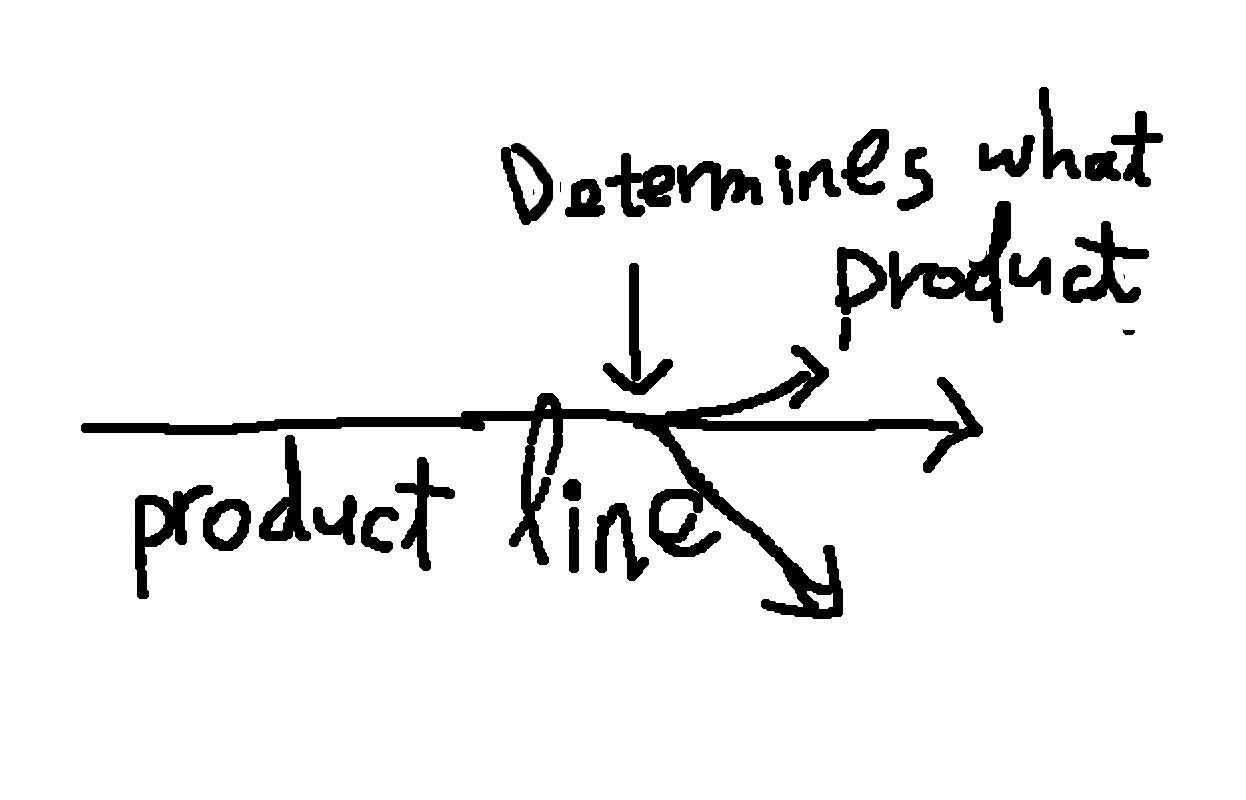
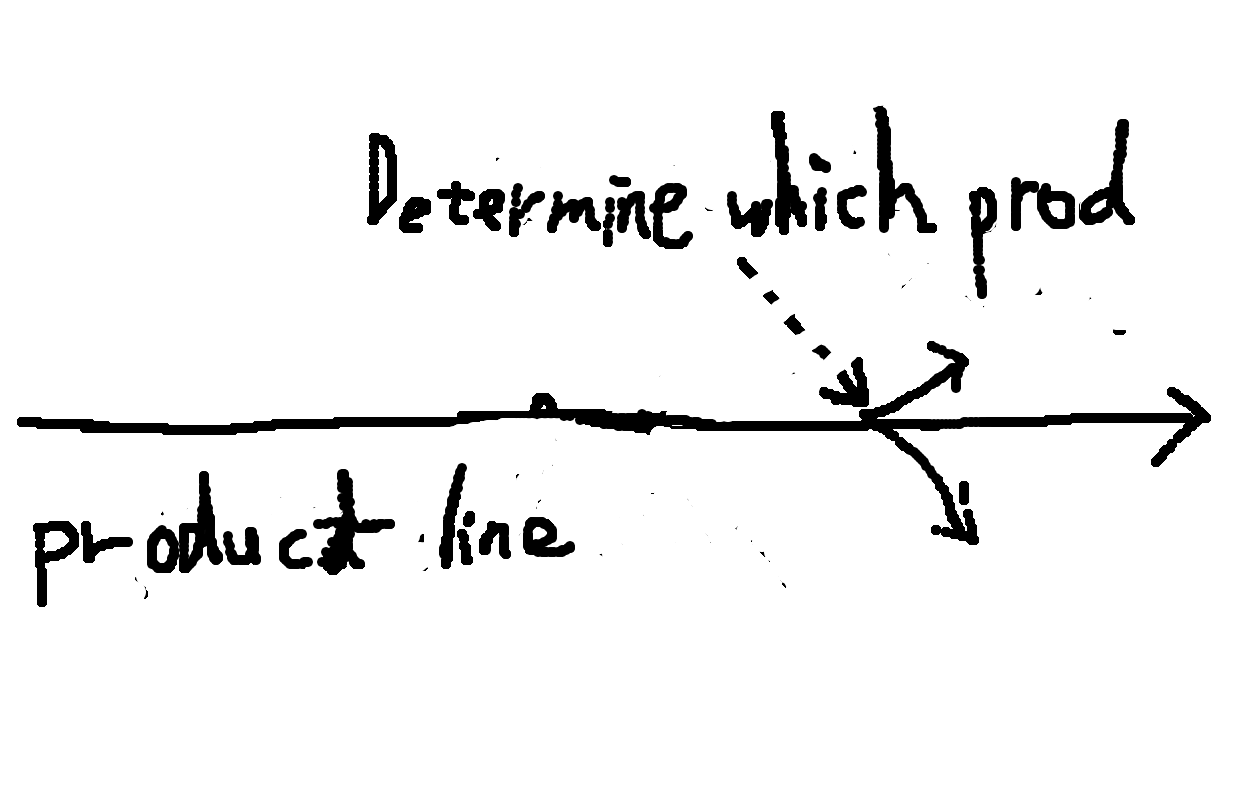
update 2022/04/09

Changed region(s): [[0.0307, 0.0938, 0.9838, 0.7812], [0.0, 0.5, 0.0922, 0.5625]]

diff --git a/_posts/Computer_Science/design_pattern/2022-04-06-factory-method.md b/_posts/Computer_Science/design_pattern/2022-04-06-factory-method.md
@@ -6,7 +6,7 @@ date: '2022-04-06'
 categories: design-pattern
 note:
 mathjax:
-mermaid:
+mermaid: true
 p5: true
 ---
 
@@ -104,17 +104,94 @@ Image that you have a factory and the product lines would be as follow:
   }
 </script>
 
+The key concept lays on that factory determines which products to be produced on the product line, which means factory method design pattern determines which kind of object to be produced on compile time.
+
 ## Why?
 
 Factory manufactures lots of products with some common characteristics. The factory method pattern demonstrates the way to create various classes with some common characteristics, meaning we do not need lots of class to create lots of objects with some common features.
 
 ## How?
 
-focus on the mechanim
+For example, you are creating a game and there are various maps in the world. You can use the factory method pattern to create the monsters in the world with creation logic you want. If I want the maps all fill with various monster randomly, then the UML would be as follow:
+
+<div class="mermaid">
+  classDiagram
+    Monster <-- MonsterHard : is a
+    Monster <-- MonsterEasy : is a
+
+    Monster : common_attributes
+    Monster : common_methods()
+
+    MonsterHard : some_hard_attributes
+    MonsterHard : some_hard_method()
+    MonsterEasy : some_easy_attributes
+    MonsterEasy : some_easy_method()
+
+    Creator <-- HardModeCreator : is a
+    Creator <-- EasyModeCreator : is a
+
+    Creator : factory_method()
+    Creator : create()
+    HardModeCreator : create_more_hard_monsters()
+    EasyModeCreator : create_more_easy_monsters()
+    HardModeCreator <-- MonsterHard : created_by
+    EasyModeCreator <-- MonsterEasy : created_by
+</div>
 
 ## What?
 
-give an example
+```ruby
+class Creator
+  def factory_method
+    raise NotImplementedError, "#{self.class} has not implemented method '#{__method__}'"
+  end
+
+  def create
+    product = factory_method
+
+    product.roar
+  end
+end
+
+class HardModeCreator < Creator
+  def factory_method
+    MonsterHard.new
+  end
+end
+
+class EasyModeCreator < Creator
+  def factory_method
+    MonsterEasy.new
+  end
+end
+
+class Monster
+  def roar
+    raise NotImplementedError, "#{self.class} has not implemented method '#{__method__}'"
+  end
+end
+
+class MonsterHard
+  def roar
+    puts 'hard monster come!'
+  end
+end
+
+class MonsterEasy
+  def roar
+    puts 'easy monster come!'
+  end
+end
+
+def create_monster(factory)
+  factory.create
+end
+
+create_monster(HardModeCreator.new)
+create_monster(EasyModeCreator.new)
+```
+
+As you can see, all the monster creation use the method, `create_monster` and call different type of factory.
 
 ## Reference
 

diff --git a/_posts/Computer_Science/design_pattern/2022-04-09-abstract-factory.md b/_posts/Computer_Science/design_pattern/2022-04-09-abstract-factory.md
@@ -1,0 +1,55 @@
+---
+layout: post
+title: absctact factory
+description: ''
+date: '2022-04-09'
+categories: design-pattern
+note:
+mathjax:
+mermaid:
+p5:
+---
+
+## Introduction & Why
+
+Given that we know the factory method, the factory method can create same kind of monster with different level. That is, we call the factory to use its product line to create **same** kind of product but choose **different** feature during the process of production. What if we want the factory to create various product? We need the factroy to have various product lines.
+
+The result would be as follow:
+
+```ruby
+def create_monsters(factory)
+  monster_a = factory.create_monster_a
+  monster_b = factory.create_monster_b
+end
+```
+
+## How?
+
+Let's say we want three methods for three environments:
+
+1. ocean, hard mode
+2. plain, easy mode
+3. dessert, hard mode
+
+so the methods to create the monsters accroding to the envrionmnets would be as follow:
+
+```ruby
+def create_monsters_hard_mode_ocean()
+end
+
+def create_monsters_easy_mode_plain()
+end
+
+def create_monsters_hard_mode_dessert()
+end
+```
+
+and the UML would be as follow:
+
+
+
+## What?
+
+give an example
+
+## Reference

diff --git a/_posts/Computer_Science/design_pattern/2022-04-02-decorator.md b/_posts/Computer_Science/design_pattern/2022-04-02-decorator.md
@@ -4,7 +4,7 @@ title: decorator
 description: ''
 date: '2022-04-02'
 categories: design-pattern
-note:
+note: 圖片存錯了，要再畫一次
 mathjax:
 mermaid: true
 p5: true
